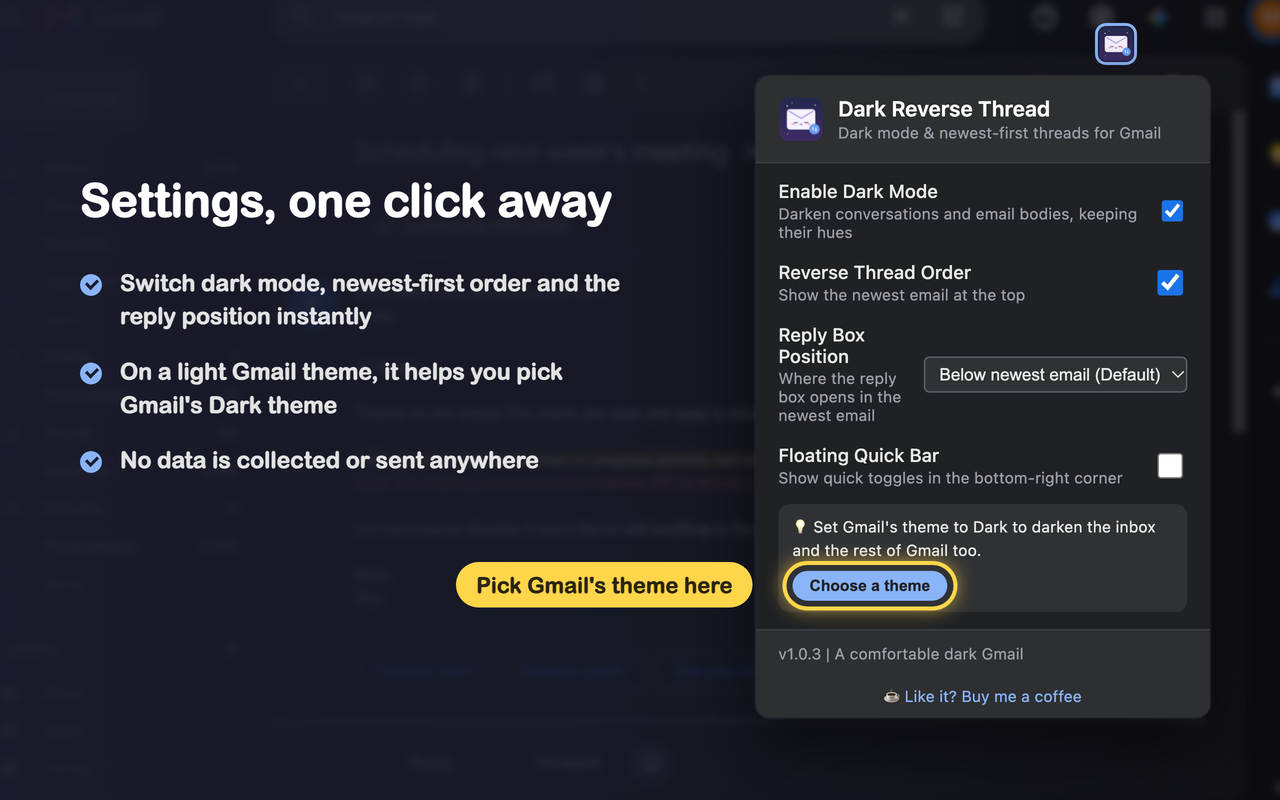
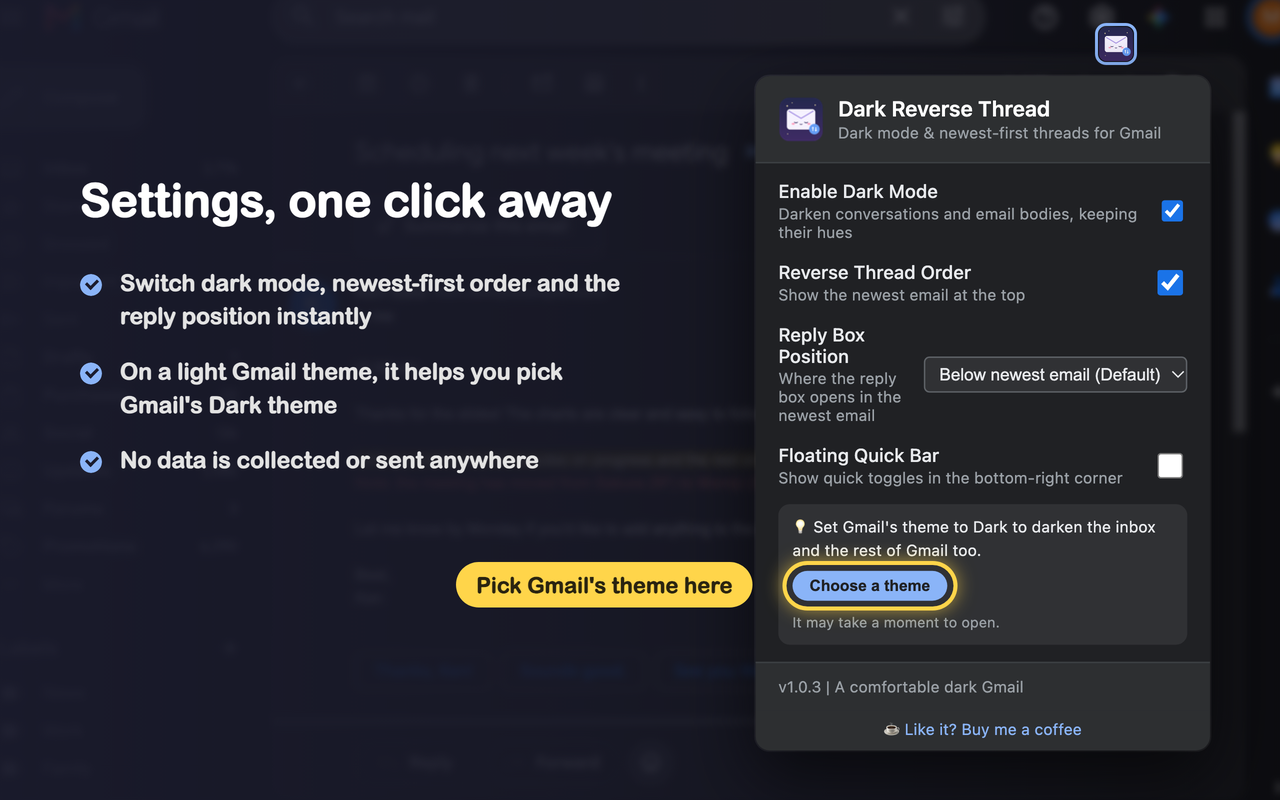
Popup: note that Gmail's theme picker may take a moment to open
Shown under both the always-on "Change Gmail's theme" link and the
light-theme tip's button. The popup screenshots are re-rendered.

Changed region(s): [[0.5938, 0.8125, 0.9688, 0.9375], [0.625, 0.75, 0.7812, 0.7812]]

diff --git a/popup.html b/popup.html
@@ -56,10 +56,12 @@
   <div class="tip" id="themeTip" hidden>
     <span data-i18n="tipGmailDarkTheme"></span>
     <button type="button" class="tip-button" id="openTheme" data-i18n="tipOpenTheme"></button>
+    <span class="theme-note" data-i18n="openThemeNote"></span>
   </div>
 
   <div class="theme-link" id="themeLink">
     <button type="button" class="link-button" id="openThemeLink" data-i18n="openThemeLink"></button>
+    <span class="theme-note" data-i18n="openThemeNote"></span>
   </div>
 
   <div class="footer">

diff --git a/popup.css b/popup.css
@@ -128,6 +128,17 @@ label {
   padding: 0 16px 10px;
 }
 
+.theme-note {
+  display: block;
+  margin-top: 2px;
+  font-size: 10px;
+  color: #9aa0a6;
+}
+
+.tip .theme-note {
+  margin-top: 8px;
+}
+
 .theme-link[hidden] {
   display: none;
 }
